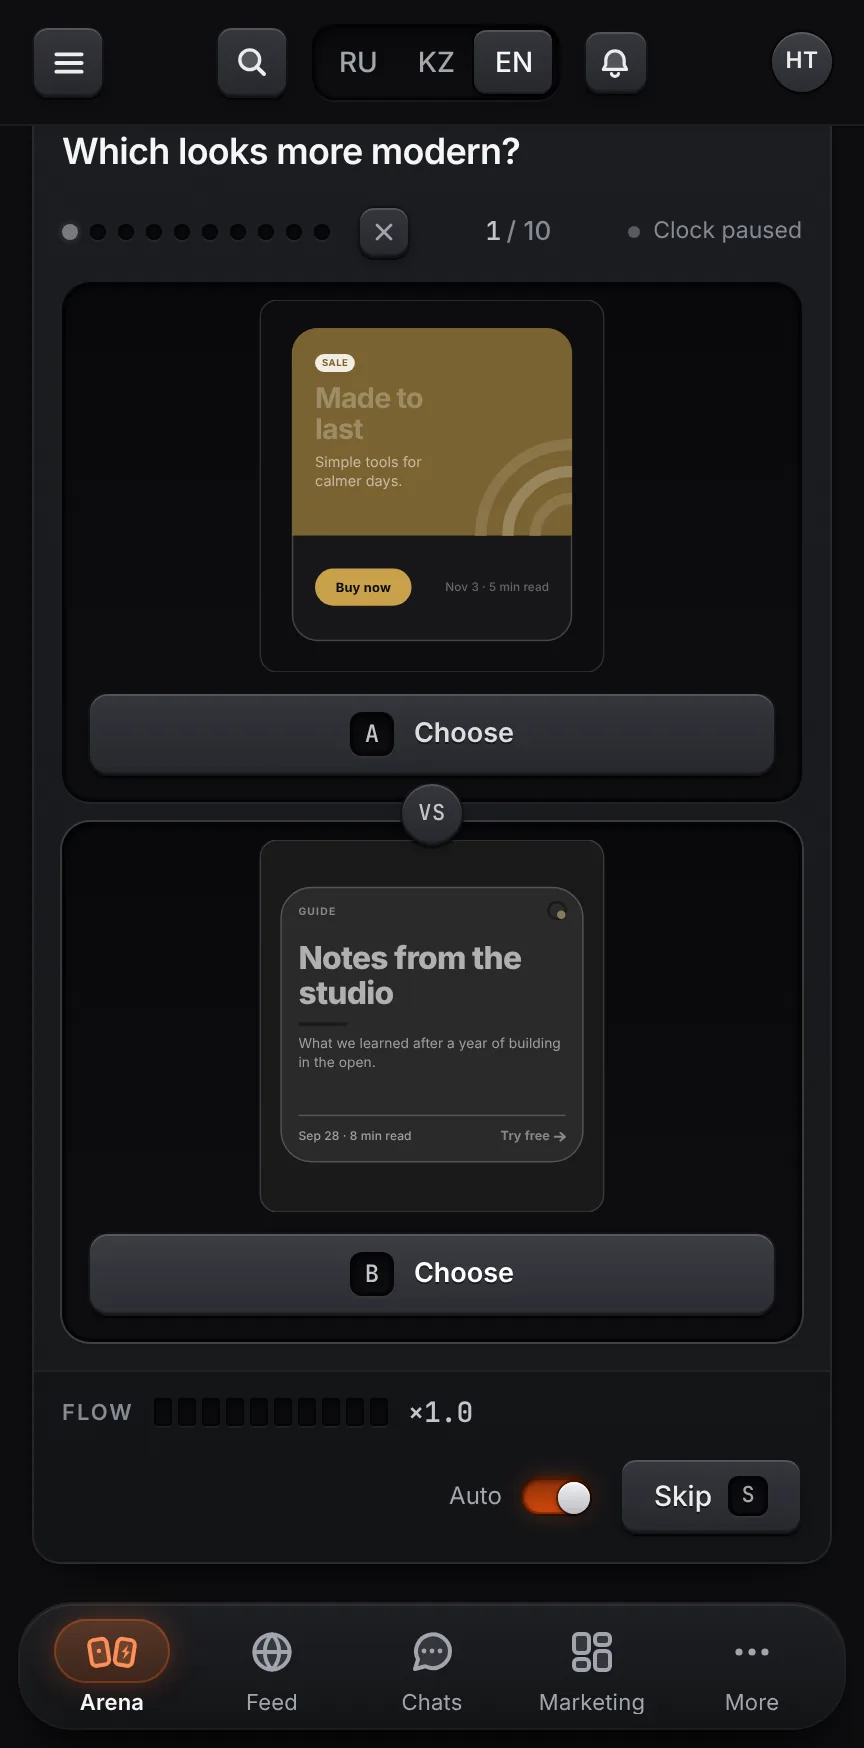
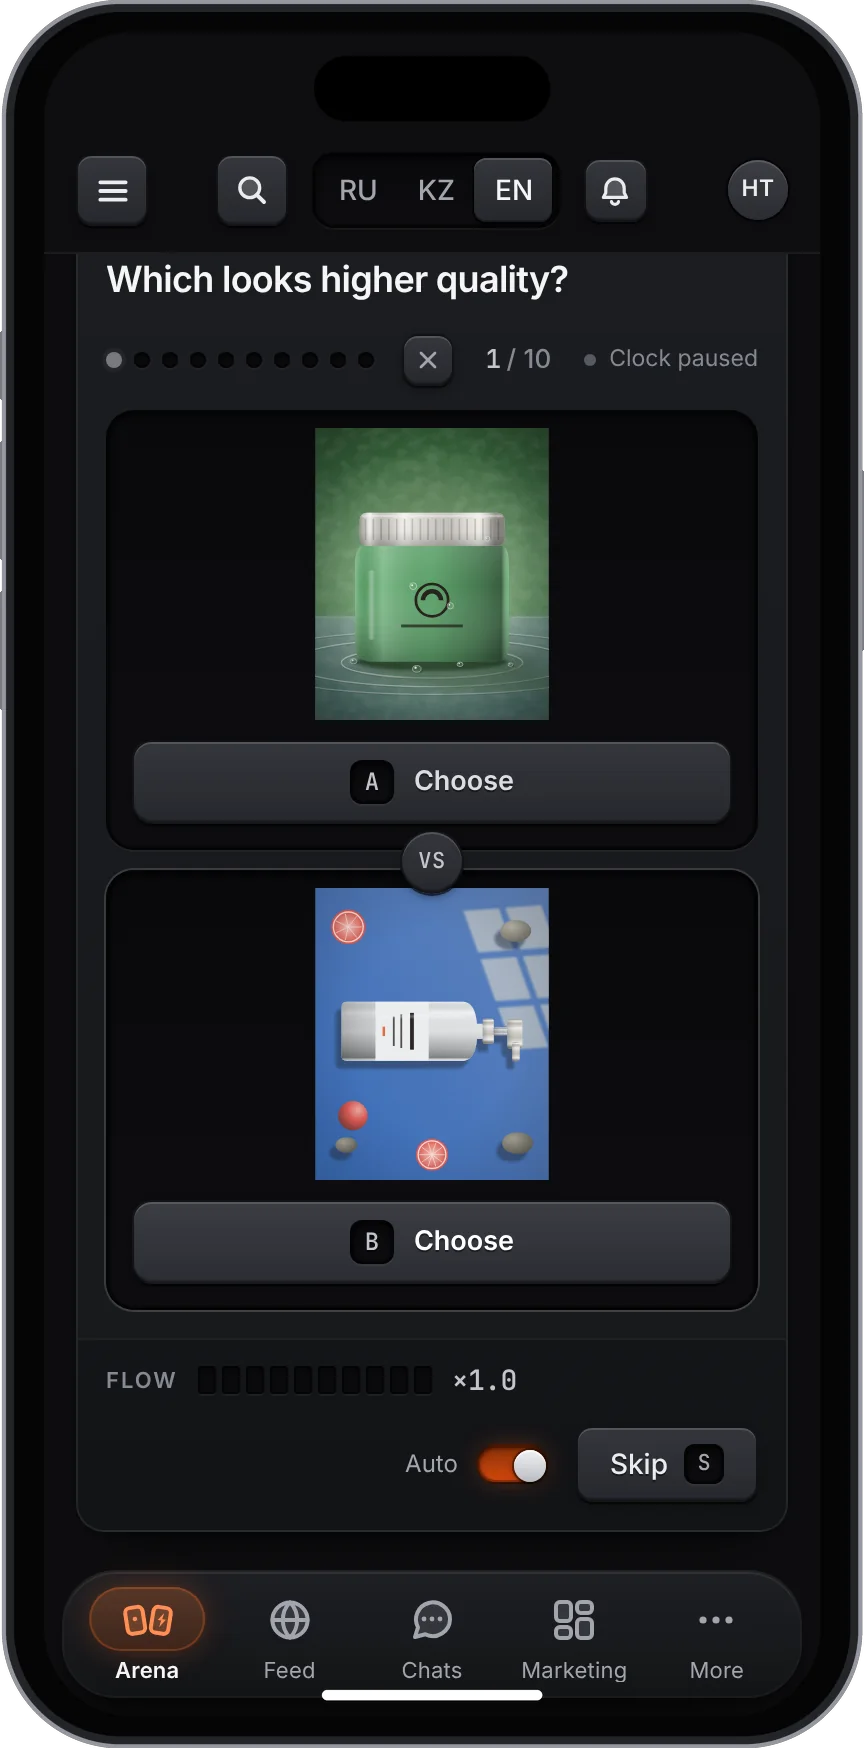
Landing: put the Arena and marketers screenshots into a phone frame like the chat one
Claude-Session: https://claude.ai/code/session_01SZsapTvJeP2uyDTa27NPB6

diff --git a/PROGRESS.md b/PROGRESS.md
@@ -4016,3 +4016,5 @@ Design: canvas "Affinix Arena Icon and Landing" (Design artifact, private): the 
 - Tests: `test_landing_story.mjs` (30: no research wording in any language, duel works, phone shots load, no overflow), `test_landing_scroll` / `test_landing_instrument` updated. Full regression: see the report.
 
 Follow-up in the same change: the hover gesture on the sidebar's collapse key was a 3px sideways nudge, which `test_sidebar_collapsed_align` (rightly) flags as an icon shifting on hover; `chevronsLeft` / `chevronsRight` now use the centred pop instead. The unused old phone images (`phone-builder|report|participant.*`) are deleted. Full regression: 64 pass, only the known `test_loading_upgrade` fails (and that one passes again after the fix above).
+
+Landing phones fix (user report: only the chat picture looked like a phone): `phone-arena.*` and `phone-styles.*` were bare screenshots. They are now composed into the same kind of device frame as `phone-chat.*` (silver rim, bezel, notch, home bar; the app starts below the notch, 388x794 css px captured at 2x), per language. Script in the scratchpad (`shoot_landing_phones.mjs` + a PIL composer); the PNG sources are not kept in the repo.
